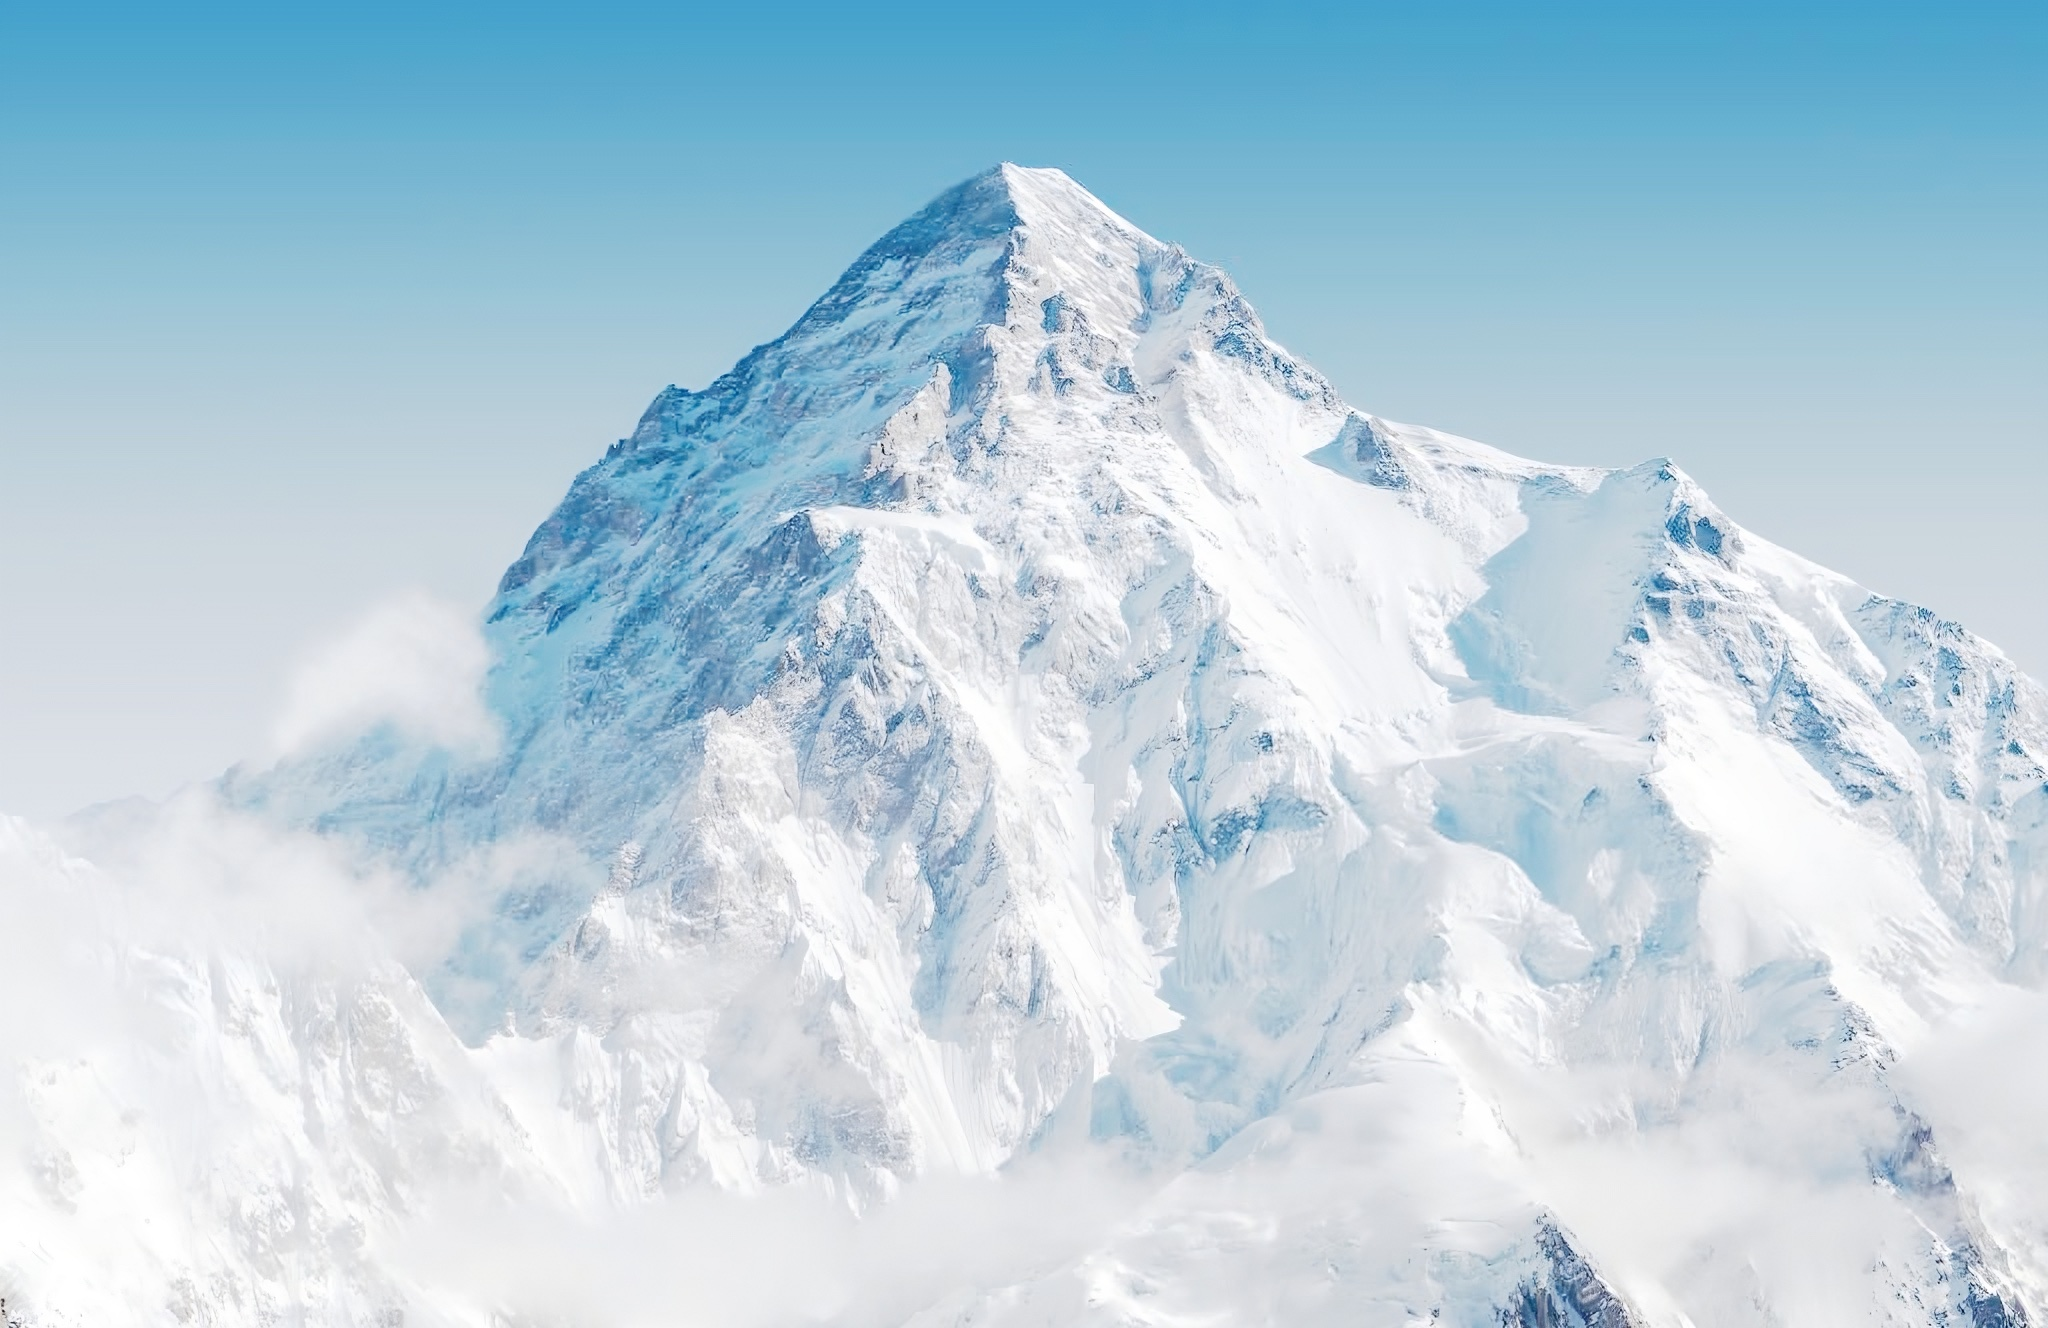
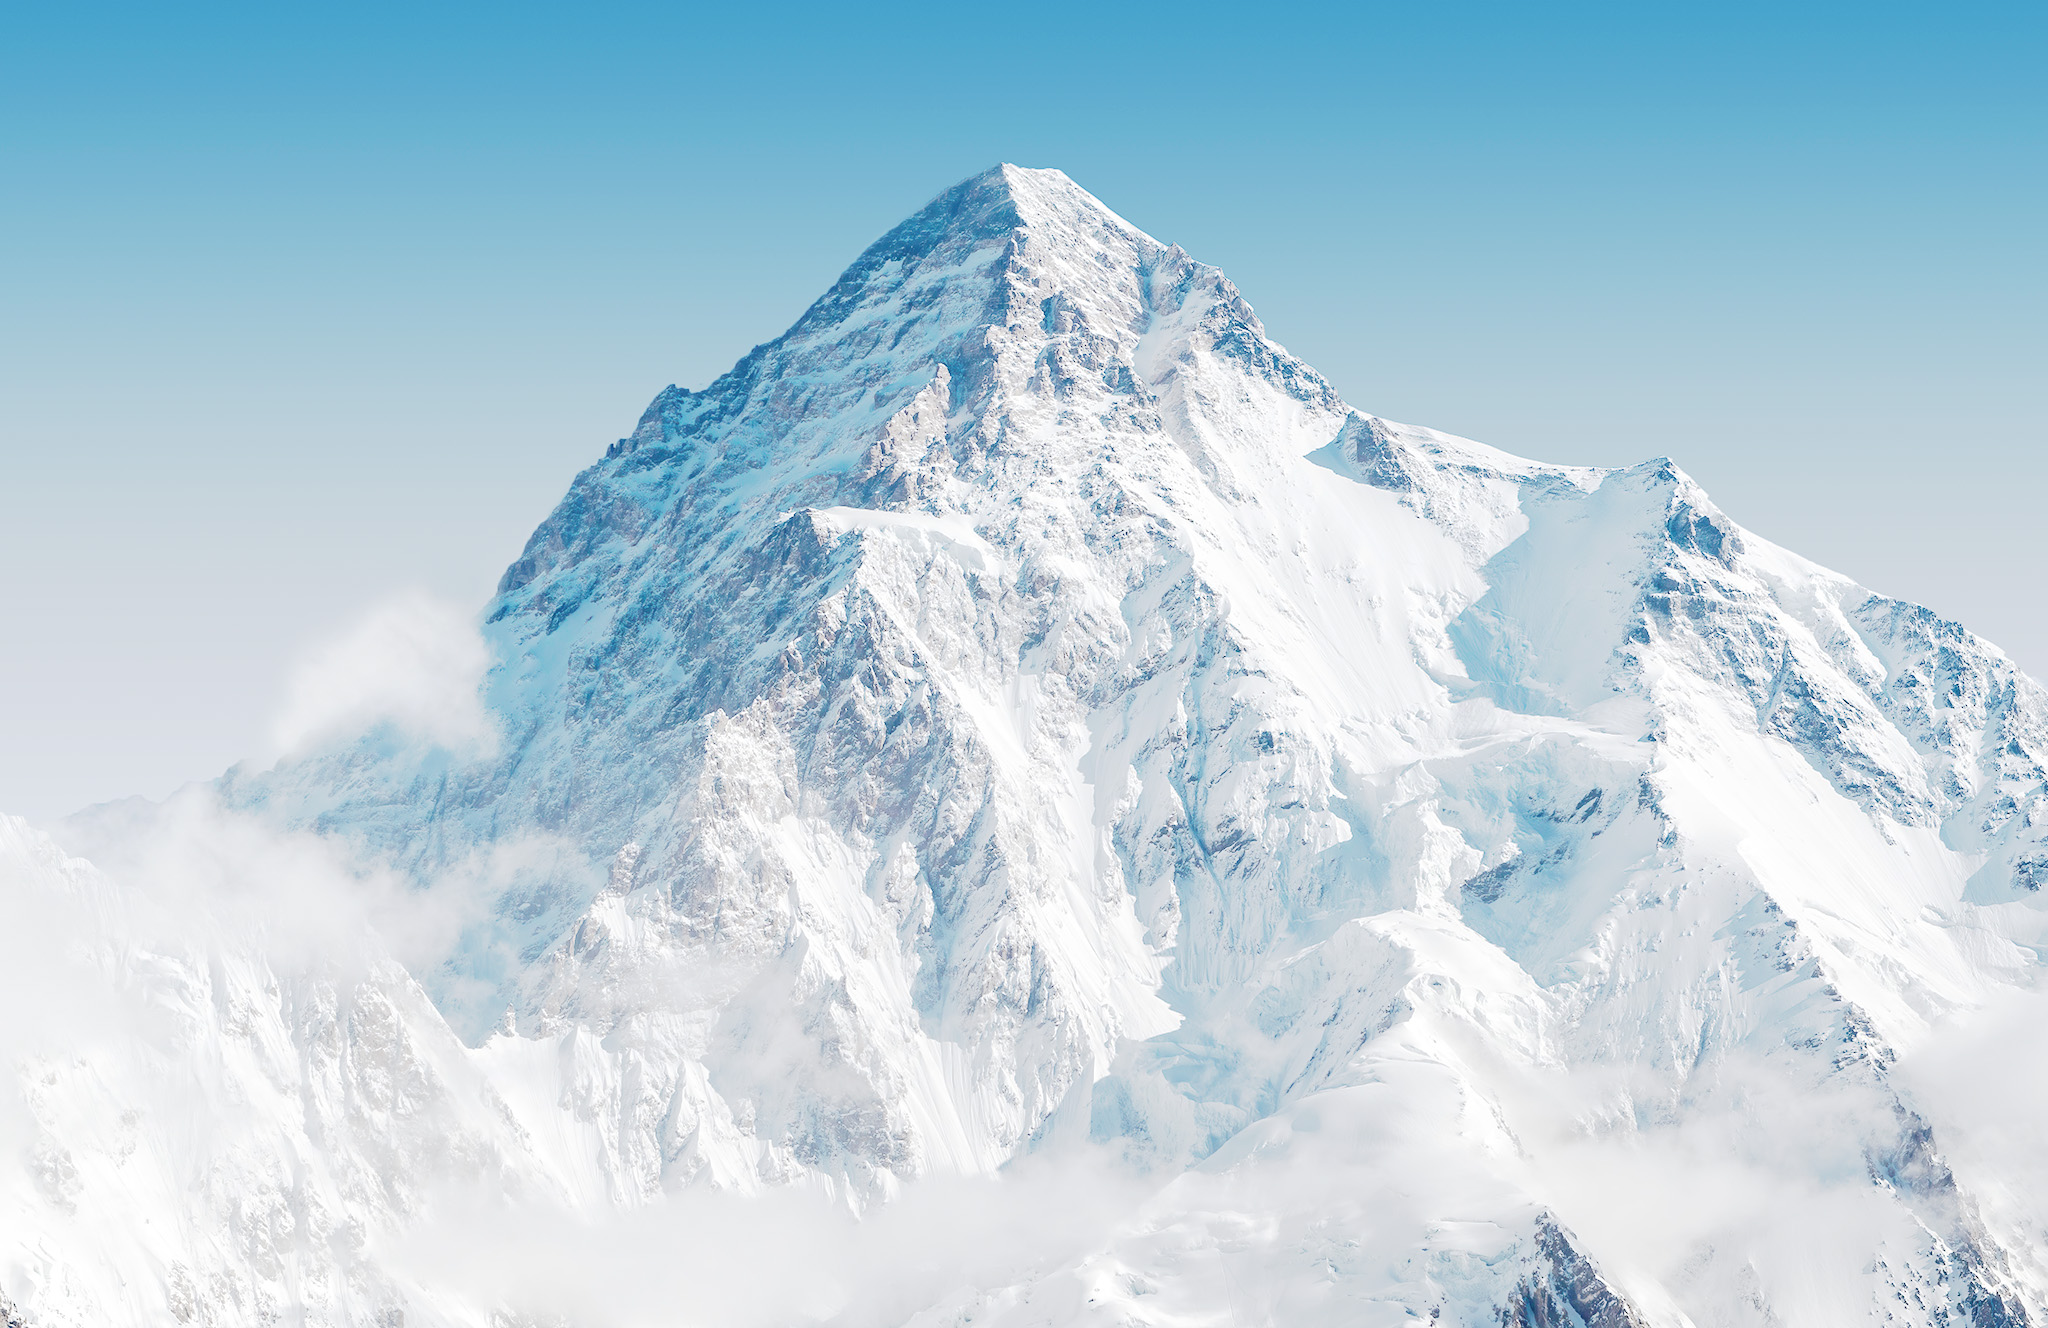
update bg image

diff --git a/app/page.tsx b/app/page.tsx
@@ -379,7 +379,7 @@ export default function LAMBApp() {
               <image
                 href="/bg.jpg"
                 x="0"
-                y="0"
+                y="-20"
                 width="1728"
                 height="958"
                 preserveAspectRatio="xMidYMid slice"
